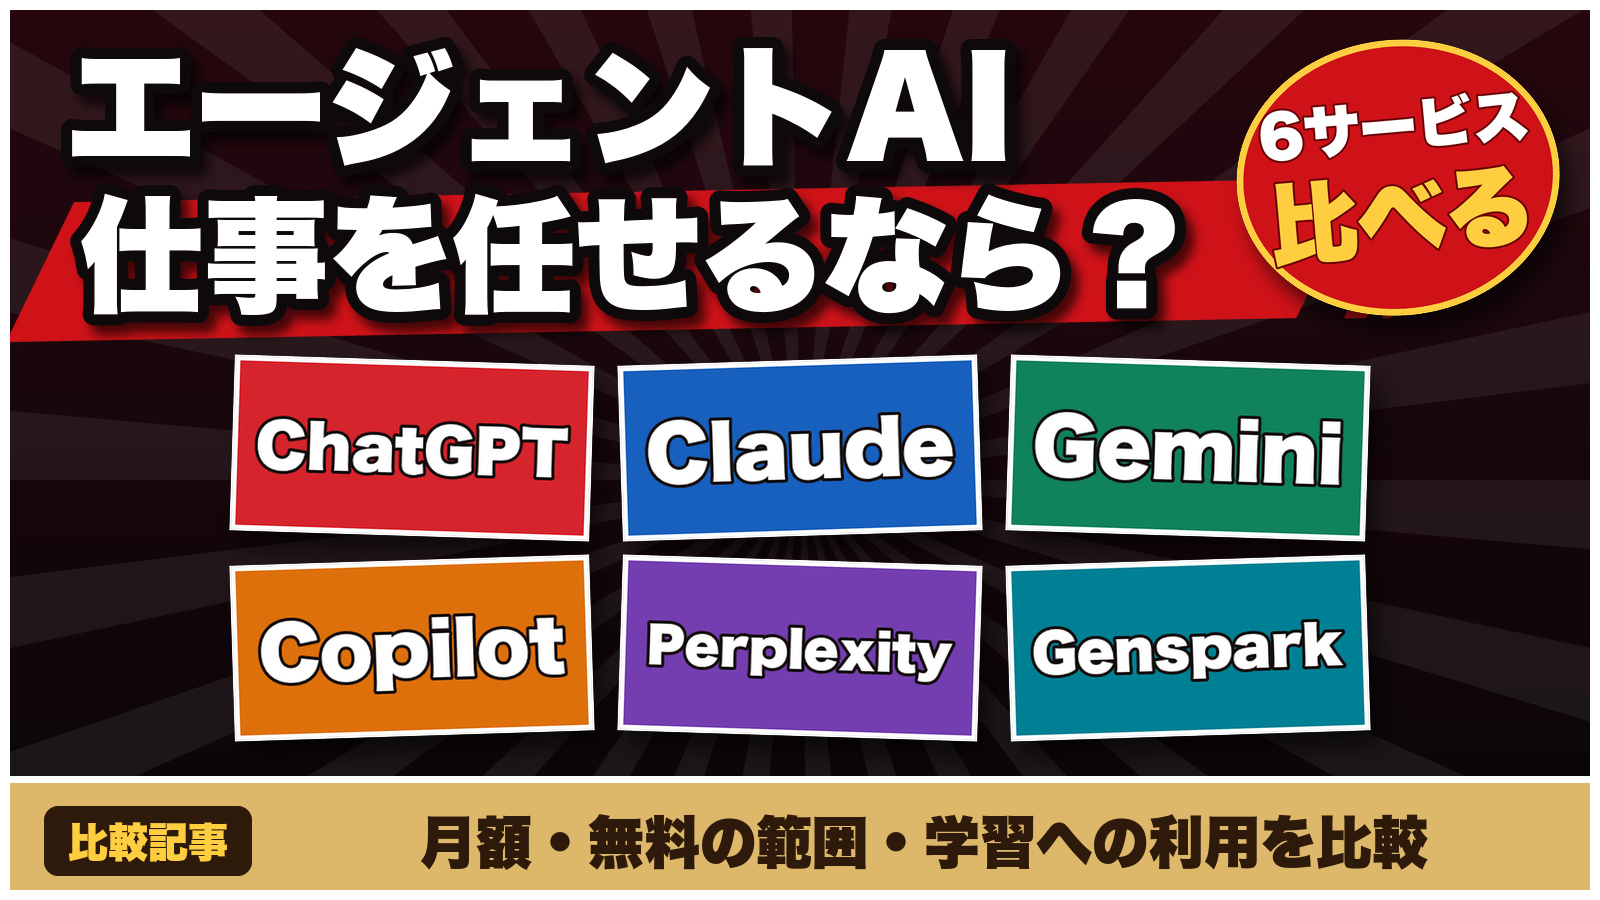
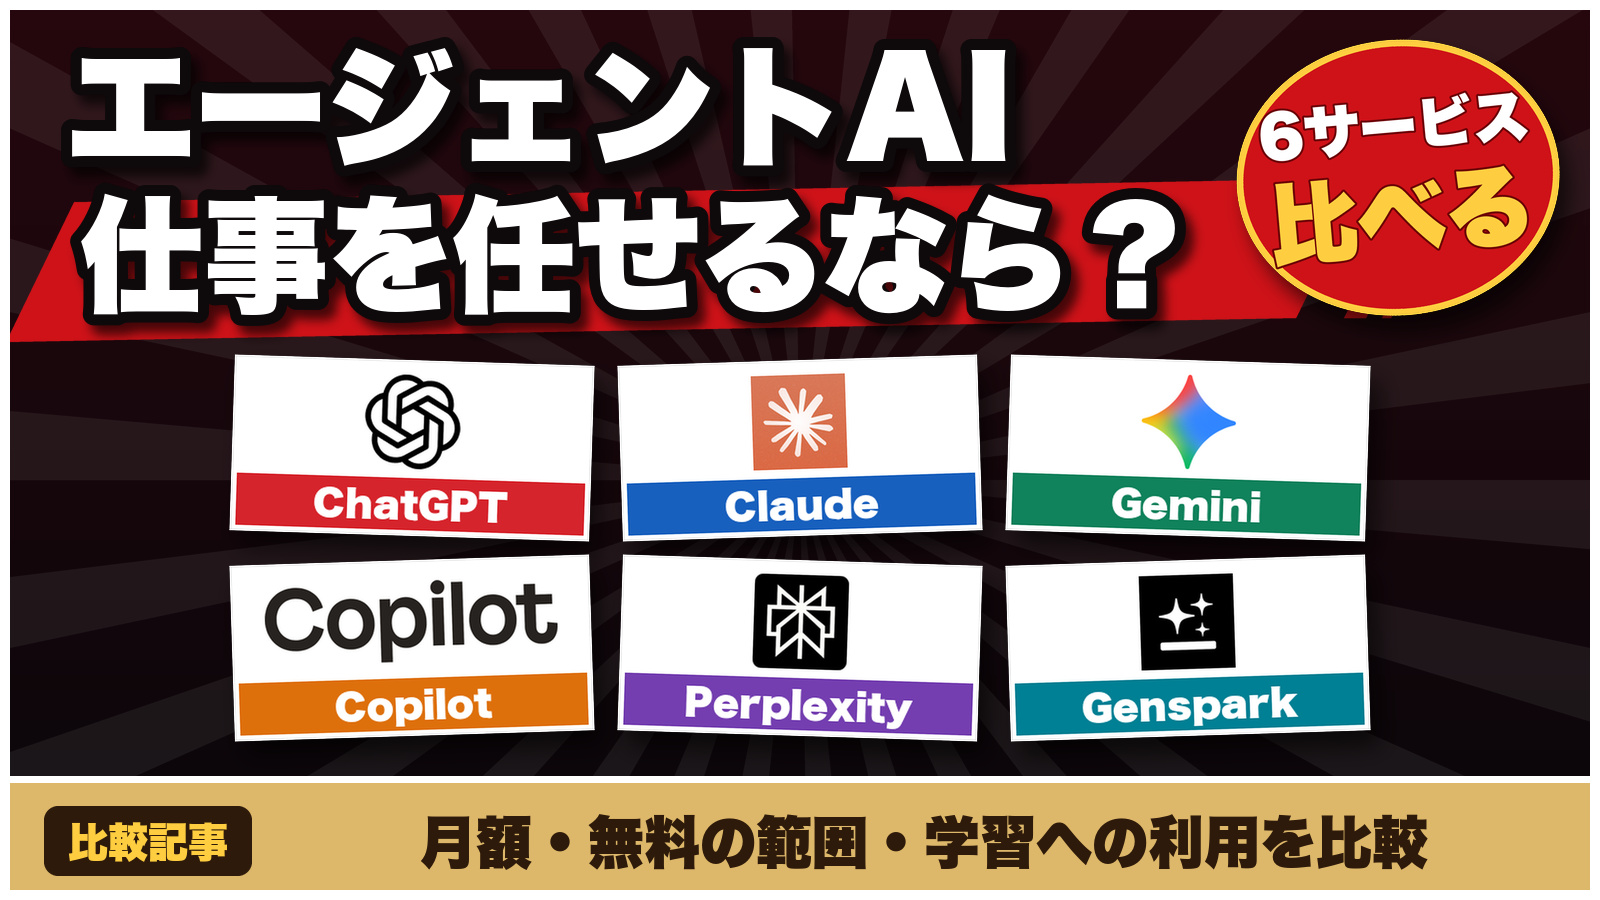
告知画像にメーカー・サービスのロゴと名前を追加。着る毛布の確認できない会社説明を直す

Changed region(s): [[0.125, 0.6222, 0.875, 0.8089], [0.125, 0.3733, 0.875, 0.5911]]

diff --git a/articles/wearable-blanket.html b/articles/wearable-blanket.html
@@ -101,7 +101,7 @@ body{font-family:Meiryo,"メイリオ","Hiragino Sans","Hiragino Kaku Gothic Pro
 <div class=buybox><p class=bbh>この商品を買えるストア（2）<span>ポイントは各ストアの通常分（Yahoo!はLINEヤフーのアカウント連携でもらえる分）。キャンペーンで増えることがあります。価格・在庫・ポイントはストアの表示が最新です</span></p><p class=btns><a class=r href='https://hb.afl.rakuten.co.jp/hgc/g00pj9yo.dmbdn887.g00pj9yo.dmbdo360/?pc=https%3A%2F%2Fitem.rakuten.co.jp%2Fbedroom%2Fs-00431%2F&amp;m=http%3A%2F%2Fm.rakuten.co.jp%2Fbedroom%2Fi%2F10066948%2F&amp;rafcid=wsc_i_is_2c0652ba-a92b-409f-928c-e5c82b75a536' rel='sponsored nofollow noopener' target=_blank aria-label='着る毛布 Mサイズ Lサイズ あったか マイクロファイバー …を楽天市場で見る'><span class=sn>楽天市場<em>おトク</em></span><small>¥4,499〜</small><small class=pt>ポイント1倍（+44pt）</small></a><a class=y href='https://ck.jp.ap.valuecommerce.com/servlet/referral?sid=3784510&amp;pid=892726197&amp;vc_url=https%3A%2F%2Fstore.shopping.yahoo.co.jp%2Fbed%2Fs-00431.html' rel='sponsored nofollow noopener' target=_blank aria-label='着る毛布 Mサイズ Lサイズ あったか マイクロファイバー …をYahoo!ショッピングで見る'><span class=sn>Yahoo!ショッピング</span><small>¥4,499〜</small><small class=pt>+40pt（1%・連携時）</small></a></p></div>
 <h2 id=item3 >3. 着る毛布 かわいい 前開きボタン 丈85cm・110cm</h2>
 <!--price--><div class=price><img src='https://thumbnail.image.rakuten.co.jp/@0_mall/enetanmin/cabinet/11215228/12008948/anmin_7288128s.jpg?_ex=800x800' alt='着る毛布 かわいい 前開きボタン 丈85cm・110cm' loading=lazy><div><span class=eff>✅実質¥1,900〜</span><span class=calc>価格¥2,000〜 − 100pt〜（ポイント5倍）</span><span class=rv>楽天・レビュー690件 ★4.5</span></div></div><!--/price-->
-<div class=good><b>👍 この商品ならではの強み・特長</b><div class=chips><span class=achip>🏅 この中でいちばん安い（実質¥1,900〜）</span><span class=achip>🏅 この中でポイント倍率がいちばん高い（5倍）</span></div><div class=scs><div class=sc><b>2,000円前後で買える</b><p>手に取りやすい価格帯で、家族の分もそろえやすい値段です。</p></div><div class=sc><b>丈を85cm・110cmから選べる</b><p>85cmはカーディガンのように羽織れる長さで、家事や移動がしやすい。110cmは足元まで覆いたい人向け。</p></div><div class=sc><b>前開き5〜6個ボタン＋「プレミアム」も選べる</b><p>ボタンで前を開け閉めでき、脱ぎ着がかんたん。より厚手のプレミアム（ミンクファー調）も選べます。</p></div></div><p class=who>🙋 <b>こんな人におすすめ：</b>家事をしながら羽織りたい人／安く買いたい人／丈を選びたい人</p></div><div class=maker><b>🏢 メーカー・会社の強み</b><p>アイリスプラザ（アイリスオーヤマグループの通販会社）の着る毛布。楽天ではエネタンミンが販売。</p></div><div class=voice><b>🗣 ユーザーの声（楽天のレビューより・要約）</b><div class=bar><span>★5</span><i style='width:63%'></i><em>432件</em></div><div class=bar><span>★4</span><i style='width:28%'></i><em>193件</em></div><div class=bar><span>★3</span><i style='width:5%'></i><em>36件</em></div><div class=bar><span>★2</span><i style='width:1%'></i><em>12件</em></div><div class=bar><span>★1</span><i style='width:1%'></i><em>10件</em></div><div class=rvs><div class=rvc><p>足先まで覆うタイプは家事で不便だったので、85cm丈を選んだ。気軽に羽織れて暖かさも十分、作りもしっかり、という声。</p><span class=note>参考になった 5人</span></div><div class=rvc><p>中学生の子ども用に。長さがちょうどよかった、という声。</p><span class=note>参考になった 4人</span></div></div><p class=note>レビューを当サイトで短く要約しました（2026-11-14確認）。感じ方には個人差があります。</p></div>
+<div class=good><b>👍 この商品ならではの強み・特長</b><div class=chips><span class=achip>🏅 この中でいちばん安い（実質¥1,900〜）</span><span class=achip>🏅 この中でポイント倍率がいちばん高い（5倍）</span></div><div class=scs><div class=sc><b>2,000円前後で買える</b><p>手に取りやすい価格帯で、家族の分もそろえやすい値段です。</p></div><div class=sc><b>丈を85cm・110cmから選べる</b><p>85cmはカーディガンのように羽織れる長さで、家事や移動がしやすい。110cmは足元まで覆いたい人向け。</p></div><div class=sc><b>前開き5〜6個ボタン＋「プレミアム」も選べる</b><p>ボタンで前を開け閉めでき、脱ぎ着がかんたん。より厚手のプレミアム（ミンクファー調）も選べます。</p></div></div><p class=who>🙋 <b>こんな人におすすめ：</b>家事をしながら羽織りたい人／安く買いたい人／丈を選びたい人</p></div><div class=maker><b>🏢 メーカー・会社の強み</b><p>寝具と安眠グッズ専門店 anmin（楽天の寝具専門ショップ）の着る毛布。商品写真のブランド表記は「Blanko」。</p></div><div class=voice><b>🗣 ユーザーの声（楽天のレビューより・要約）</b><div class=bar><span>★5</span><i style='width:63%'></i><em>432件</em></div><div class=bar><span>★4</span><i style='width:28%'></i><em>193件</em></div><div class=bar><span>★3</span><i style='width:5%'></i><em>36件</em></div><div class=bar><span>★2</span><i style='width:1%'></i><em>12件</em></div><div class=bar><span>★1</span><i style='width:1%'></i><em>10件</em></div><div class=rvs><div class=rvc><p>足先まで覆うタイプは家事で不便だったので、85cm丈を選んだ。気軽に羽織れて暖かさも十分、作りもしっかり、という声。</p><span class=note>参考になった 5人</span></div><div class=rvc><p>中学生の子ども用に。長さがちょうどよかった、という声。</p><span class=note>参考になった 4人</span></div></div><p class=note>レビューを当サイトで短く要約しました（2026-11-14確認）。感じ方には個人差があります。</p></div>
 <p class=note>ショップ：寝具と安眠グッズ専門店 anmin。サイズ・種類・数量で価格が変わる場合があります。購入前に、商品ページで、種類ごとの価格と内容を確認してください。</p>
 <div class=buybox><p class=bbh>この商品を買えるストア（1）<span>ポイントは各ストアの通常分（Yahoo!はLINEヤフーのアカウント連携でもらえる分）。キャンペーンで増えることがあります。価格・在庫・ポイントはストアの表示が最新です</span></p><p class=btns><a class=r href='https://hb.afl.rakuten.co.jp/hgc/g00qxfgo.dmbdn738.g00qxfgo.dmbdo111/?pc=https%3A%2F%2Fitem.rakuten.co.jp%2Fenetanmin%2F9541888%2F&amp;m=http%3A%2F%2Fm.rakuten.co.jp%2Fenetanmin%2Fi%2F10040177%2F&amp;rafcid=wsc_i_is_2c0652ba-a92b-409f-928c-e5c82b75a536' rel='sponsored nofollow noopener' target=_blank aria-label='着る毛布 かわいい 前開きボタン 丈85cm・110cmを楽天市場で見る'><span class=sn>楽天市場</span><small>¥2,000〜</small><small class=pt>ポイント5倍（+100pt）</small></a></p></div>
 <h2 id=item4 >4. 吸湿 発熱 ふわふわ マイクロファイバー 着る毛布 M L レディース メンズ 男女兼用 ポ…</h2>
